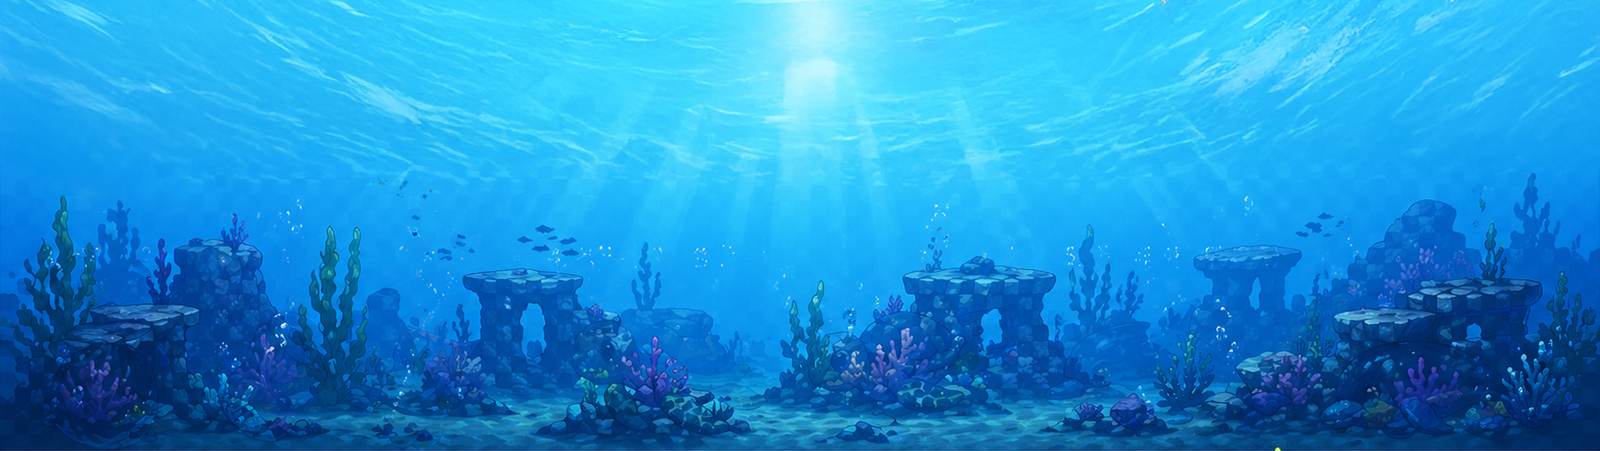
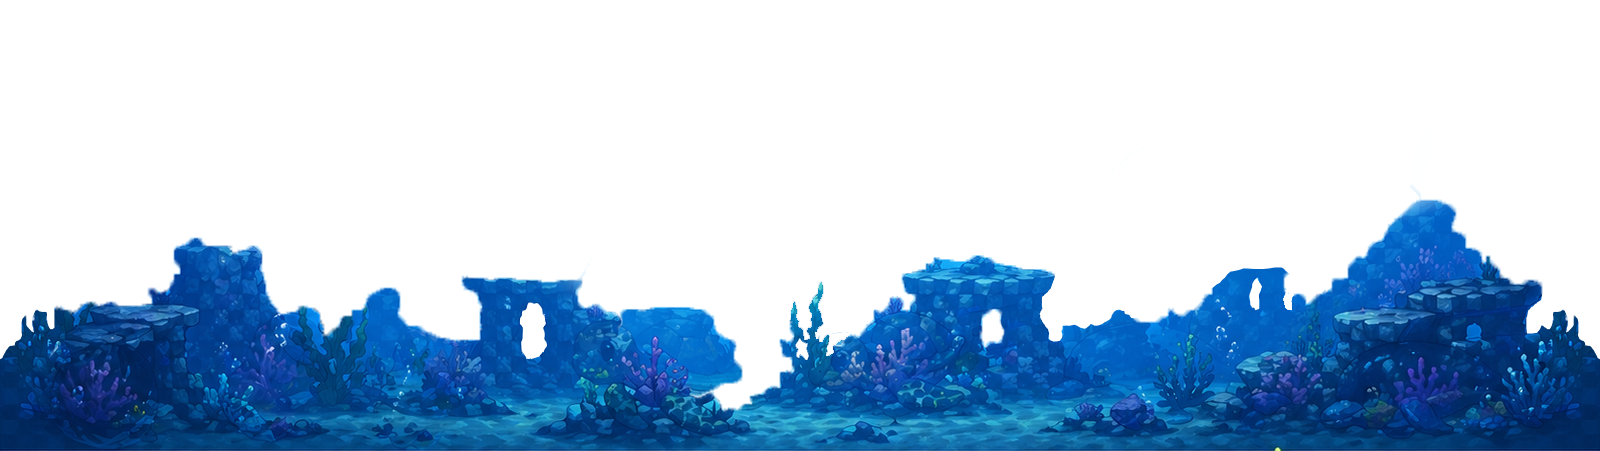
배경 1.2.3 레이어 분리 돌고래, 거북이 아이템, hp eco 바 적용 코드 추가

diff --git a/index.html b/index.html
@@ -1,192 +1,241 @@
-<!DOCTYPE html>
-<html lang="ko">
-<head>
-<meta charset="UTF-8">
-<title>Green Diver</title>
-<script src="https://cdn.jsdelivr.net/npm/phaser@3.60.0/dist/phaser.min.js"></script>
-<style>
-body { margin:0; background:#000; display:flex; justify-content:center; align-items:center; height:100vh;}
-</style>
-</head>
-<body>
-
 <script>
-const GW = 800, GH = 450;
-const GRAVITY = 500;
-const JUMP_V = -300;
 
-let player, bg1, bg2, bg3;
-let playerVY = 0;
-let isGameOver = false;
-let finTimer = 0, finFrame = 0;
-let bubbles = [];
+const GW=800, GH=450;
 
-let obstacles, items;
+let player, obstacles, items, trashGroup;
+let playerVY=0, speed=2;
+let hp=100, eco=0;
+let stage=1;
+let isGameOver=false;
 
-const config = {
-    type: Phaser.AUTO,
-    width: GW,
-    height: GH,
-    physics: { default: 'arcade', arcade: { gravity:{y:0} }},
-    scene: { preload, create, update }
-};
+let turtle=null, dolphin=null;
+let turtleHP=0, dolphinHP=0;
 
-new Phaser.Game(config);
+let hpBar, ecoBar;
 
-/* ================= PRELOAD ================= */
+/* ================= INIT ================= */
 function preload(){
     this.load.image('diver_a','assets/diver_a.png');
     this.load.image('diver_b','assets/diver_b.png');
 
-    this.load.image('bg1','assets/bg3.png');
-    this.load.image('bg2','assets/bg2.png');
-    this.load.image('bg3','assets/bg1.png');
-
     this.load.image('coral1','assets/coral1.png');
     this.load.image('coral2','assets/coral2.png');
     this.load.image('coral3','assets/coral3.png');
-
     this.load.image('weed','assets/weed.png');
 
     this.load.image('turtle','assets/turtle.png');
     this.load.image('dolphin','assets/dolphin.png');
+
+    this.load.image('trash1','assets/trash1.png');
+    this.load.image('trash2','assets/trash2.png');
+    this.load.image('trash3','assets/trash3.png');
 }
 
-/* ================= CREATE ================= */
 function create(){
 
-    // 배경
-    bg1 = this.add.tileSprite(GW/2,GH/2,GW,GH,'bg1').setDepth(-3);
-    bg2 = this.add.tileSprite(GW/2,GH/2,GW,GH,'bg2').setDepth(-2);
-    bg3 = this.add.tileSprite(GW/2,GH/2,GW,GH,'bg3').setDepth(-1);
+    player=this.add.image(150,GH/2,'diver_a');
 
-    // 플레이어
-    player = this.add.image(150,GH/2,'diver_a');
-
-    // 그룹
-    obstacles = this.physics.add.group();
-    items = this.physics.add.group();
-
-    // 입력
-    this.input.keyboard.on('keydown-SPACE',()=> handleInput.call(this));
-    this.input.keyboard.on('keydown-R',()=> restart.call(this));
-    this.input.on('pointerdown',()=> handleInput.call(this));
-
-    // 스폰
-    this.time.addEvent({delay:2000, callback:spawnObstacle, callbackScope:this, loop:true});
-    this.time.addEvent({delay:3000, callback:spawnItem, callbackScope:this, loop:true});
+    obstacles=this.add.group();
+    items=this.add.group();
+    trashGroup=this.add.group();
 
     // UI
-    this.gameOverText = this.add.text(GW/2,GH/2,'',{
-        fontSize:'32px',fill:'#fff',backgroundColor:'#00000088'
-    }).setOrigin(0.5);
+    hpBar=this.add.rectangle(20,20,200,15,0x00ffcc).setOrigin(0);
+    ecoBar=this.add.rectangle(20,40,0,10,0x00ff88).setOrigin(0);
+
+    // 입력
+    this.input.on('pointerdown',()=> jump());
+    this.input.keyboard.on('keydown-SPACE',()=> jump());
+    this.input.keyboard.on('keydown-R',()=> restart.call(this));
+
+    // 스폰
+    this.time.addEvent({delay:1200, callback:spawnObstacle, callbackScope:this, loop:true});
+    this.time.addEvent({delay:2000, callback:spawnTrash, callbackScope:this, loop:true});
+    this.time.addEvent({delay:5000, callback:spawnItem, callbackScope:this, loop:true});
 }
 
 /* ================= UPDATE ================= */
 function update(time,delta){
     if(isGameOver) return;
-    const dt = delta/1000;
 
-    // 패럴랙스
-    bg1.tilePositionX += 0.3;
-    bg2.tilePositionX += 0.8;
-    bg3.tilePositionX += 1.5;
+    let dt=delta/1000;
 
-    // 물리
-    playerVY += GRAVITY * dt;
-    player.y += playerVY * dt;
+    // 중력
+    playerVY+=500*dt;
+    player.y+=playerVY*dt;
 
-    // 애니메이션
-    finTimer += delta;
-    if(finTimer > 200){
-        finTimer = 0;
-        finFrame = 1 - finFrame;
-        player.setTexture(finFrame ? 'diver_b':'diver_a');
+    // 경계 체크
+    if(player.y<20 || player.y>GH-20){
+        damage(5);
     }
 
-    // 물방울 (머리쪽)
-    if(Math.random() < 0.1){
-        const b = this.add.circle(
-            player.x + 20,
-            player.y - 20,
-            2,0xaaddff,0.6
-        );
-        bubbles.push(b);
-    }
+    // 애니
+    if(time%300<150) player.setTexture('diver_a');
+    else player.setTexture('diver_b');
 
-    bubbles = bubbles.filter(b=>{
-        b.y -= 1;
-        b.alpha -= 0.01;
-        if(b.alpha<=0){ b.destroy(); return false;}
-        return true;
+    // 장애물
+    obstacles.getChildren().forEach(o=>{
+        o.x-=o.speed;
+
+        if(collide(player,o)){
+            hitObstacle(o);
+        }
+
+        if(o.x<-50) o.destroy();
     });
 
-    // 장애물 이동
-    obstacles.getChildren().forEach(o=>{
-        o.x -= 3;
-        if(o.x < -50) o.destroy();
+    // 쓰레기
+    trashGroup.getChildren().forEach(t=>{
+        t.x-=2;
 
-        if(Phaser.Math.Distance.Between(player.x,player.y,o.x,o.y) < 40){
-            gameOver.call(this);
+        if(collide(player,t)){
+            t.destroy();
+            eco=Math.min(100,eco+20);
         }
+
+        if(t.x<-50) t.destroy();
     });
 
     // 아이템
     items.getChildren().forEach(i=>{
-        i.x -= 3;
-        if(i.x < -50) i.destroy();
+        i.x-=i.speed;
 
-        if(Phaser.Math.Distance.Between(player.x,player.y,i.x,i.y) < 40){
+        // 위아래 움직임
+        i.y+=Math.sin(time*0.005)*0.5;
+
+        if(collide(player,i)){
+            applyItem(i.texture.key);
             i.destroy();
         }
     });
+
+    // 거북이
+    if(turtle){
+        turtle.x=player.x+40;
+        turtle.y=player.y;
+    }
+
+    // 돌고래
+    if(dolphin){
+        dolphin.x=player.x+40;
+        dolphin.y=player.y+Math.sin(time*0.01)*20;
+    }
+
+    // UI
+    hpBar.width=hp*2;
+    ecoBar.width=eco*2;
+
+    // 스테이지
+    if(time>20000) stage=2;
+    if(time>40000) stage=3;
 }
 
-/* ================= INPUT ================= */
-function handleInput(){
-    if(isGameOver){
-        restart.call(this);
-    }else{
-        playerVY = JUMP_V;
+/* ================= 충돌 ================= */
+function collide(a,b){
+    return Phaser.Math.Distance.Between(a.x,a.y,b.x,b.y)<40;
+}
+
+/* ================= 데미지 ================= */
+function damage(d){
+    if(eco>0){
+        eco-=d;
+        return;
+    }
+
+    hp-=d;
+    if(hp<=0) gameOver();
+}
+
+/* ================= 장애물 충돌 ================= */
+function hitObstacle(o){
+
+    if(turtle){
+        turtleHP--;
+        if(turtleHP<=0){
+            turtle.destroy();
+            turtle=null;
+        }
+        return;
+    }
+
+    if(dolphin){
+        dolphinHP--;
+        if(dolphinHP<=0){
+            dolphin.destroy();
+            dolphin=null;
+            speed=2;
+        }
+        return;
+    }
+
+    damage(10);
+}
+
+/* ================= 아이템 ================= */
+function applyItem(type){
+
+    if(type==='turtle'){
+        turtle=this.add.image(player.x,player.y,'turtle');
+        turtleHP=3;
+    }
+
+    if(type==='dolphin'){
+        dolphin=this.add.image(player.x,player.y,'dolphin');
+        dolphinHP=3;
+        speed=4;
     }
 }
 
-/* ================= SPAWN ================= */
+/* ================= 스폰 ================= */
 function spawnObstacle(){
-    const types = ['coral1','coral2','coral3'];
-    const key = types[Math.floor(Math.random()*types.length)];
+    const types=['coral1','coral2','coral3','weed'];
+    const key=types[Math.floor(Math.random()*types.length)];
 
-    const o = this.add.image(GW+50, GH-50, key);
+    let y;
+
+    if(key==='weed') y=Phaser.Math.Between(50,150);
+    else y=GH-50;
+
+    const o=this.add.image(GW+50,y,key);
+
+    // 랜덤 속도
+    o.speed=Phaser.Math.Between(2,4);
+
     obstacles.add(o);
+}
 
-    // 위 수초
-    if(Math.random() > 0.5){
-        const w = this.add.image(GW+50,50,'weed');
-        obstacles.add(w);
-    }
+function spawnTrash(){
+    const types=['trash1','trash2','trash3'];
+    const key=types[Math.floor(Math.random()*types.length)];
+
+    const t=this.add.image(GW+50,Phaser.Math.Between(80,350),key);
+    trashGroup.add(t);
 }
 
 function spawnItem(){
-    const key = Math.random()>0.5 ? 'turtle':'dolphin';
-    const i = this.add.image(GW+50, Phaser.Math.Between(100,350), key);
+    const key=Math.random()>0.5?'turtle':'dolphin';
+
+    const i=this.add.image(GW+50,Phaser.Math.Between(100,300),key);
+    i.speed=2;
+
     items.add(i);
 }
 
-/* ================= GAME ================= */
+/* ================= 조작 ================= */
+function jump(){
+    if(isGameOver) return;
+    playerVY=-300;
+}
+
+/* ================= 게임오버 ================= */
 function gameOver(){
-    isGameOver = true;
-    this.gameOverText.setText('GAME OVER\nR or 클릭');
+    isGameOver=true;
+    alert('GAME OVER');
 }
 
+/* ================= 리셋 ================= */
 function restart(){
-    isGameOver = false;
-    player.setPosition(150,GH/2);
-    playerVY = 0;
-    this.gameOverText.setText('');
-
-    obstacles.clear(true,true);
-    items.clear(true,true);
+    location.reload();
 }
+
 </script>
-</body>
-</html>
